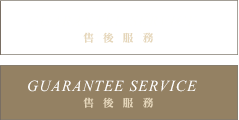
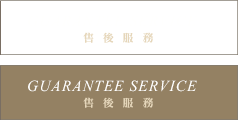
修正 knowledge 最右方按鈕白線、contact 表單按鈕 hover

diff --git a/css/contact.css b/css/contact.css
@@ -10,7 +10,7 @@
   text-indent: -119988px;
   overflow: hidden;
   text-align: left;
-  background-image: url('../images/title_contact.png?1377783962');
+  background-image: url('../images/title_contact.png?1377910657');
   background-repeat: no-repeat;
   background-position: 50% 50%;
   margin: 0;
@@ -124,7 +124,7 @@ form {
 button {
   display: inline-block;
   border: 0;
-  background: url("../images/submit.png") no-repeat;
+  background: url("../images/submit.png") no-repeat top;
   width: 88px;
   height: 32px;
   text-align: left;
@@ -133,20 +133,25 @@ button {
 }
 
 /* line 108, ../sass/contact.scss */
+button:hover {
+  background-position: bottom;
+}
+
+/* line 112, ../sass/contact.scss */
 button:first-letter {
   margin-left: -20em;
 }
 
-/* line 112, ../sass/contact.scss */
+/* line 116, ../sass/contact.scss */
 .row-fluid .span12 {
   margin: 0;
 }
-/* line 115, ../sass/contact.scss */
+/* line 119, ../sass/contact.scss */
 .row-fluid .span12 .inputs {
   height: 195px;
 }
 
-/* line 120, ../sass/contact.scss */
+/* line 124, ../sass/contact.scss */
 .visual {
   padding-top: 50px;
 }

diff --git a/css/knowledge.css b/css/knowledge.css
@@ -22,7 +22,7 @@ div.middle_container {
   text-indent: -119988px;
   overflow: hidden;
   text-align: left;
-  background-image: url('../images/knowledge/top.png');
+  background-image: url('../images/knowledge/top.png?1377997057');
   background-repeat: no-repeat;
   background-position: 50% 50%;
 }
@@ -117,11 +117,11 @@ div.middle_container {
 }
 /* line 92, ../sass/knowledge.scss */
 .content ul.nav li.guaranteeservice a {
-  width: 239px;
+  width: 238px;
   text-indent: -119988px;
   overflow: hidden;
   text-align: left;
-  background-image: url('../images/knowledge/knowledge_nav_05.png?1377945838');
+  background-image: url('../images/knowledge/knowledge_nav_05.png?1378189938');
   background-repeat: no-repeat;
   background-position: left top;
 }

diff --git a/sass/contact.scss b/sass/contact.scss
@@ -74,8 +74,8 @@ form {
         }
         
     }
-    span.date_slash{
-	  	color:rgb(177, 147, 159);
+    span.date_slash {
+	  	color: rgb(177, 147, 159);
     }
 
     textarea {
@@ -97,12 +97,16 @@ form {
 button {
     display: inline-block;
     border: 0;
-    background: url('../images/submit.png') no-repeat;
+    background: url('../images/submit.png') no-repeat top;
     width: 88px;
     height: 32px;
     text-align: left;
     letter-spacing: -3em;
     overflow: hidden;
+}
+
+button:hover {
+    background-position: bottom;
 }
 
 button:first-letter {

diff --git a/sass/knowledge.scss b/sass/knowledge.scss
@@ -90,7 +90,7 @@ div.middle_container {
             }
 
             &.guaranteeservice a {
-                width: 239px;
+                width: 238px;
                 @include replace-text("knowledge/knowledge_nav_05.png", left, top);
 
                 &:hover {
